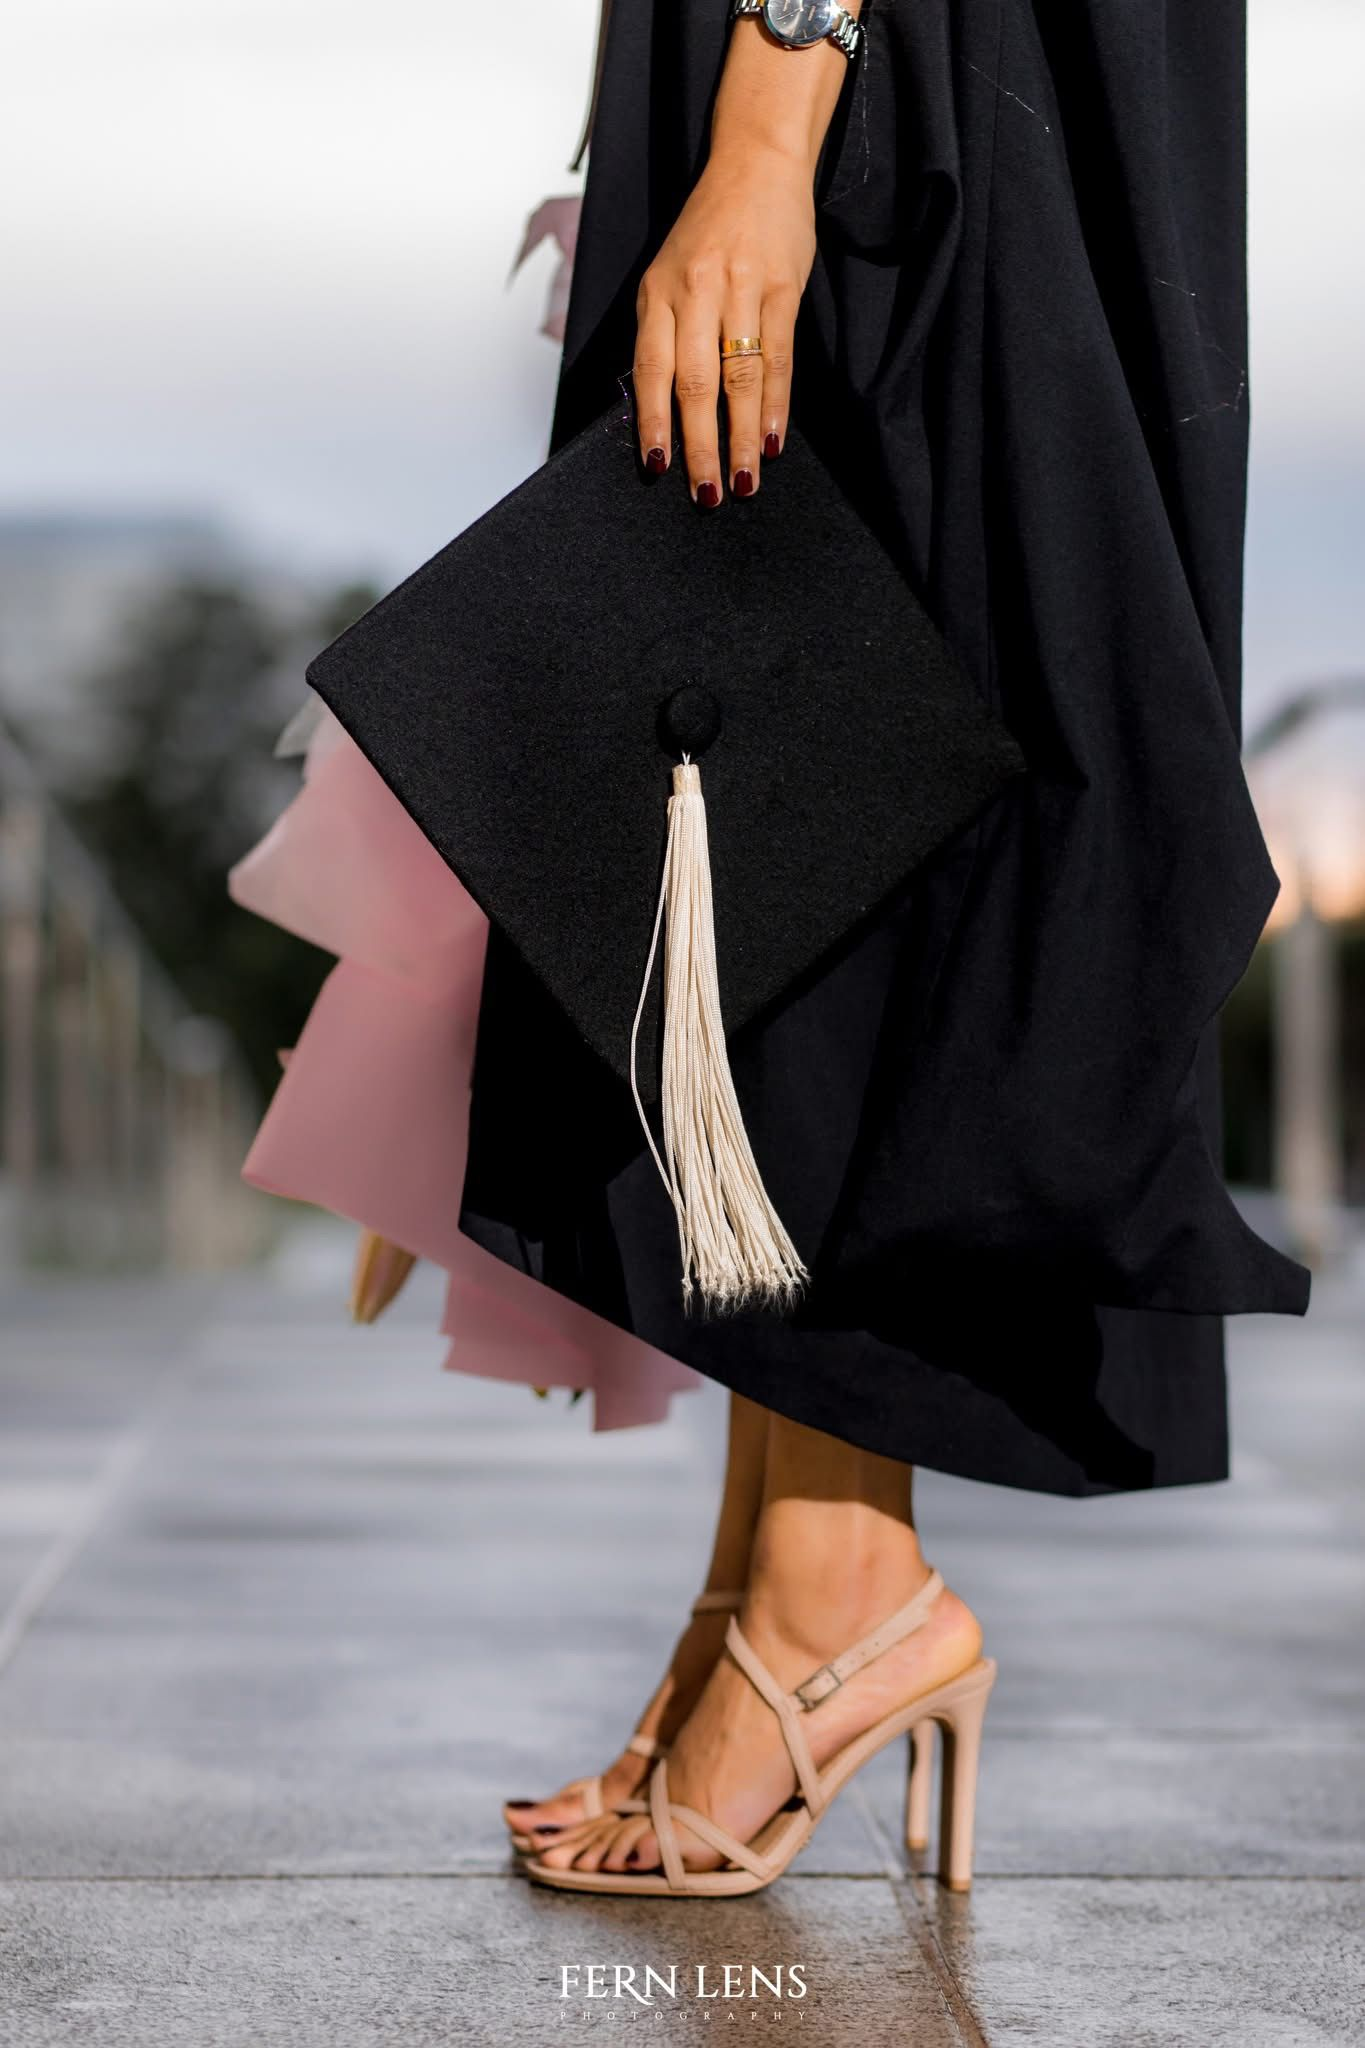
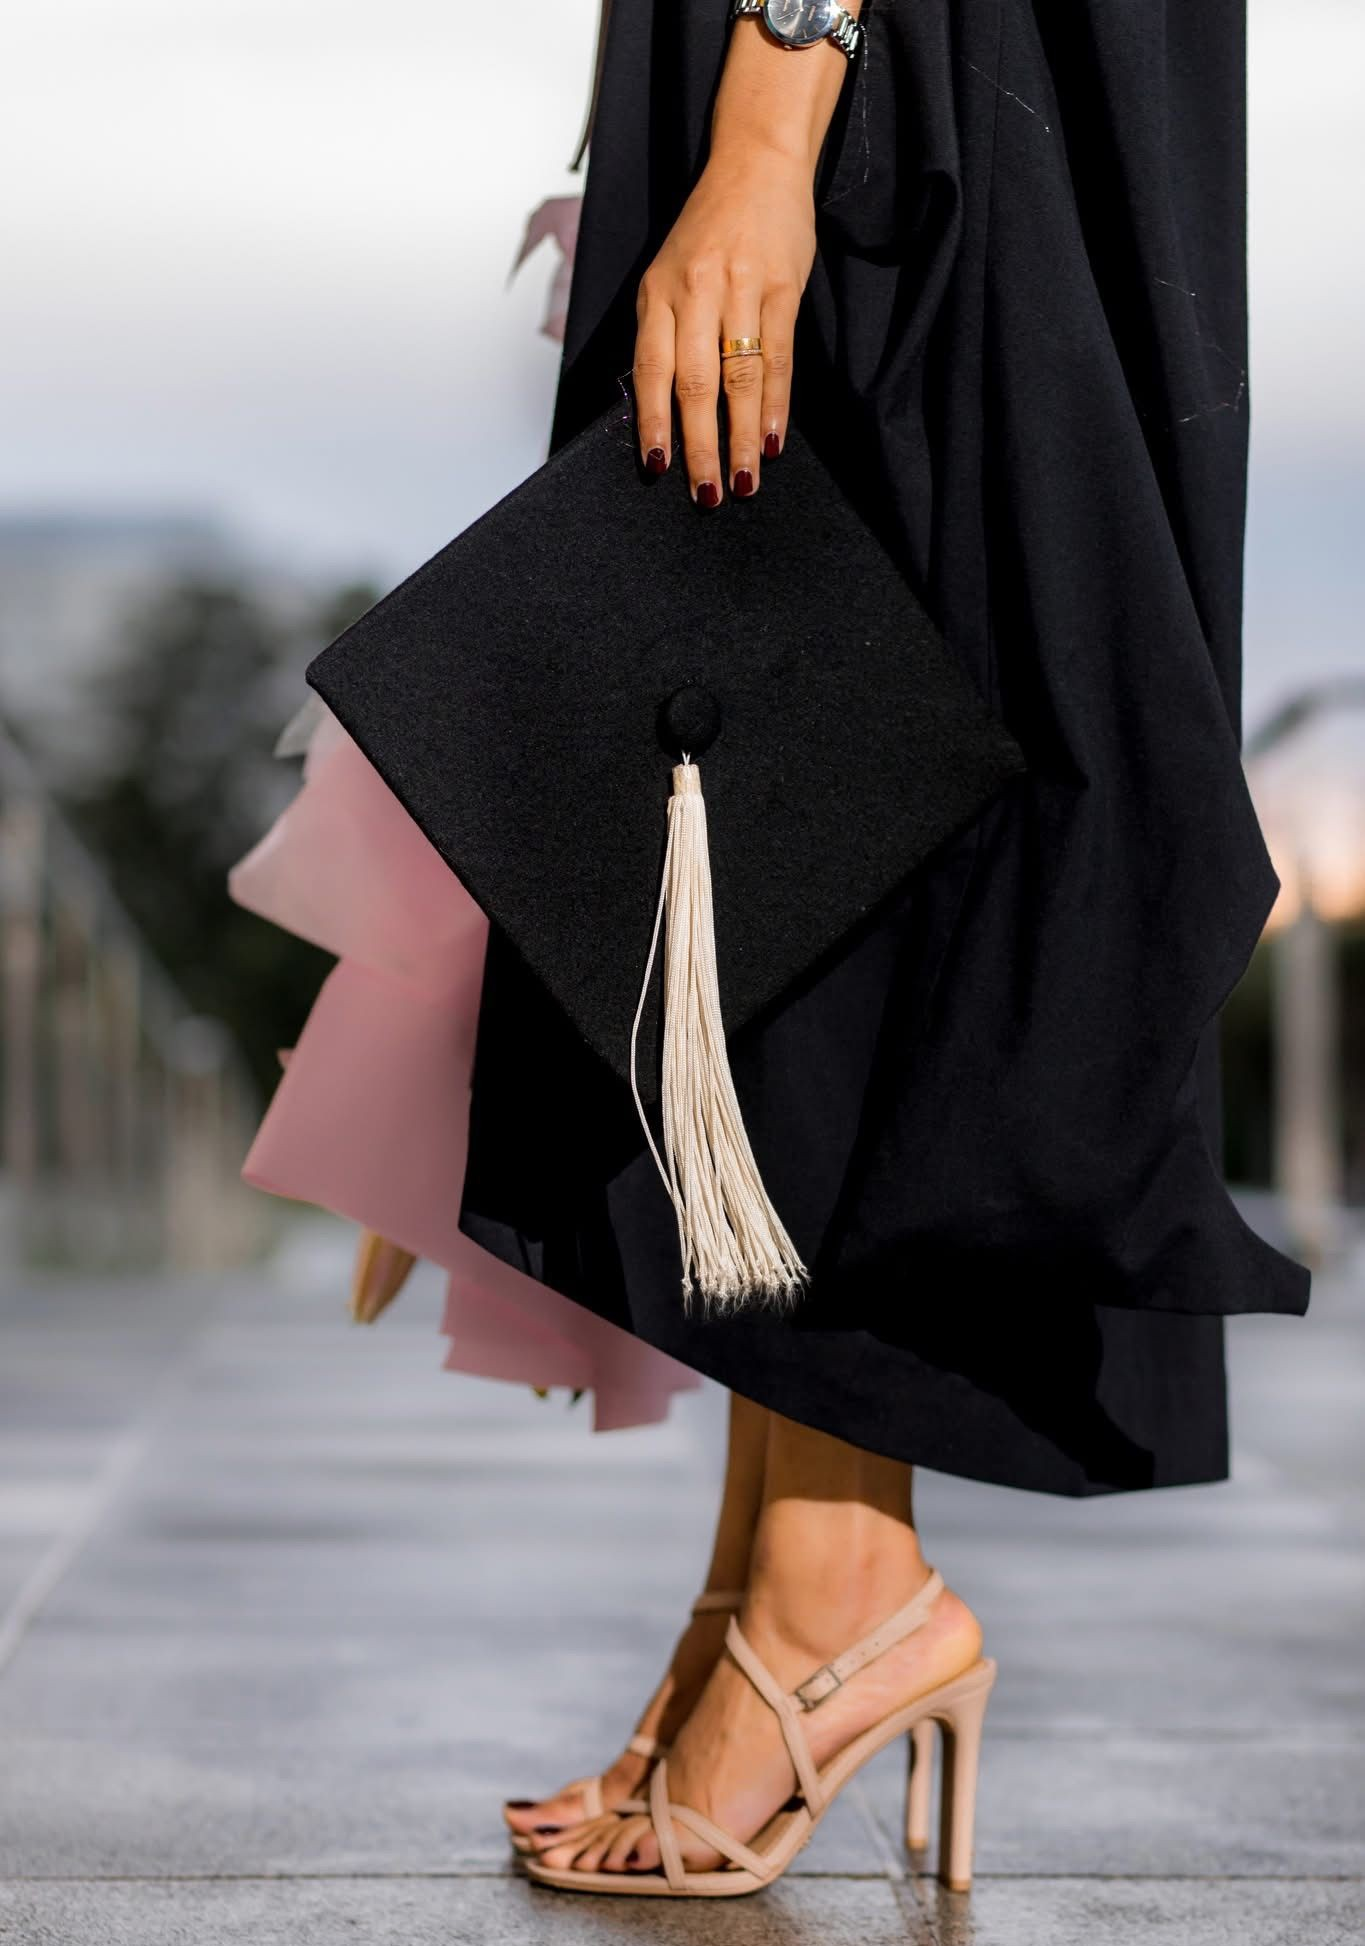
Fixed errors

diff --git a/src/data/photos.js b/src/data/photos.js
@@ -105,9 +105,9 @@ export const photos = [
 export const heroImages = [
   { desktop: '/photos/slides/slide1.jpg', mobile: '/photos/slides/slide1.jpg', alt: 'Event',  category: 'Event Photography' },
   { desktop: '/photos/slides/slide2.jpg', mobile: '/photos/slides/slide5.jpeg', alt: 'Graduation',  category: 'Graduation Photography' },
-  { desktop: '/photos/slides/slide4.jpg', mobile: '/photos/slides/slide4.jpg', alt: 'RealEstate',  category: 'Real Estate' },
-  { desktop: '/photos/slides/slide7.jpeg', mobile: '/photos/slides/slide10.jpg', alt: 'Birthday',  category: 'Birthday Photography' },
   { desktop: '/photos/slides/slide8.jpg', mobile: '/photos/slides/slide8.jpg', alt: 'Wedding',  category: 'Wedding Photography' },
+  { desktop: '/photos/slides/slide4.jpg', mobile: '/photos/slides/slide4.jpg', alt: 'RealEstate',  category: 'Real Estate' },
+  { desktop: '/photos/slides/slide10.jpg', mobile: '/photos/slides/slide11.jpg', alt: 'Birthday',  category: 'Birthday Photography' },
   { desktop: '/photos/slides/slide9.jpg', mobile: '/photos/slides/slide9.jpg', alt: 'Product',  category: 'Product Photography' },
   // { desktop: '/photos/slides/slide10.jpeg', mobile: '/photos/slides/slide10.jpeg', alt: 'Slide 10', category: 'Birthday Photography' },
 ];
